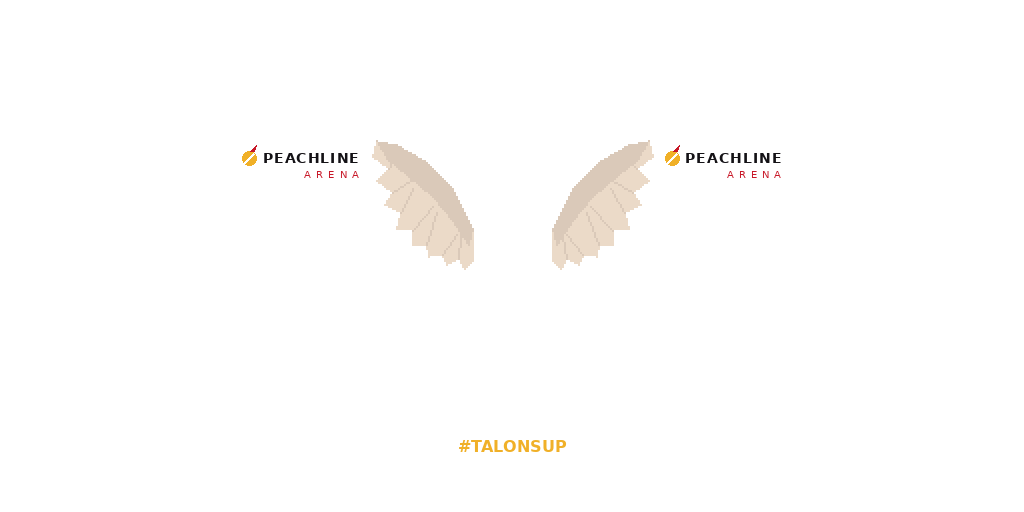
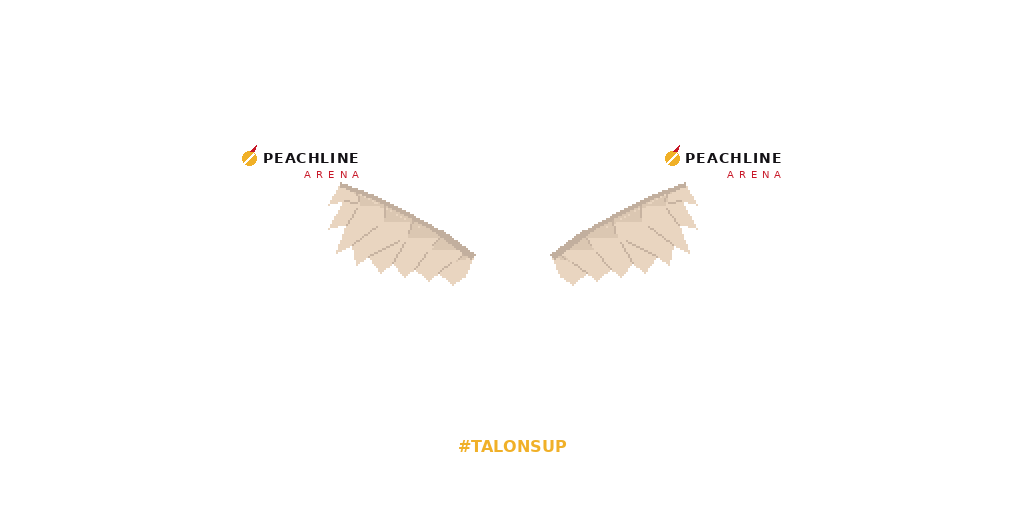
Reshape Talons court wings into a broad spread-wing silhouette
Flatter, wider wings whose leading edge sweeps up to high outer tips,
with a tier of pointed coverts and long primaries fanning down and out,
set low enough to pass under the sponsor marks.

Claude-Session: https://claude.ai/code/session_019xdidrNboBfdBqy3KgEpk9

Changed region(s): [[0.5312, 0.2812, 0.6875, 0.5625], [0.3125, 0.2812, 0.4688, 0.5625]]

diff --git a/hoopland/make_talons_overlay.py b/hoopland/make_talons_overlay.py
@@ -10,8 +10,8 @@ import math, os
 
 W, H = 1024, 512
 LW, LH = W // 2, H // 2  # pixel-art layer, upscaled 2x
-LIGHT_FACE = (206, 166, 122)
-DARK_FACE = (166, 124, 84)
+LIGHT_FACE = (210, 170, 126)
+DARK_FACE = (140, 100, 64)
 BLACK = (20, 18, 22)
 RED = (200, 24, 40)
 GOLD = (240, 176, 40)
@@ -27,23 +27,38 @@ SANS_LIGHT = "/usr/share/fonts/truetype/dejavu/DejaVuSans.ttf"
 wings = Image.new("RGBA", (LW, LH), (0, 0, 0, 0))
 wd = ImageDraw.Draw(wings)
 
-# left wing outline relative to center: leading edge up to the tip, then the feathered trailing edge
-LEADING = ((-20, -14), (-30, -34), (-44, -48), (-58, -56), (-68, -58))
-TIPS = ((-70, -50), (-68, -38), (-64, -26), (-58, -14), (-50, -6), (-42, 0), (-33, 4), (-24, 6))
-NOTCHES = ((-62, -44), (-60, -32), (-56, -22), (-50, -13), (-43, -6), (-35, -1), (-27, 1), (-20, 2))
-BONE = ((-24, -16), (-34, -30), (-46, -40), (-58, -48))
+# Broad, nearly horizontal spread wings: the leading edge sweeps up to high outer tips, a tier of
+# pointed coverts runs along the top, and long primaries fan down and outward at the ends.
+# Points are for the left wing, relative to center; the right wing mirrors them.
+MID_FACE = (182, 140, 98)
+EDGE = (130, 92, 58)
+DROP = 12                                                 # sit the wings low enough to pass under the sponsor marks
+def lower(pts):
+    return tuple((x, y + DROP) for x, y in pts)
+LEADING = lower(((-20, -12), (-36, -24), (-54, -34), (-70, -42), (-86, -48)))
+TIPS = lower(((-92, -38), (-92, -26), (-88, -14), (-78, -8), (-66, -4), (-54, -2), (-42, 0), (-30, 2)))
+NOTCHES = lower(((-84, -40), (-83, -28), (-80, -18), (-72, -12), (-60, -9), (-49, -6), (-37, -4), (-24, -2)))
+COVERT_TIPS = lower(((-76, -38), (-64, -30), (-52, -22), (-40, -16), (-28, -10)))
+COVERT_NOTCHES = lower(((-78, -45), (-64, -38), (-50, -30), (-36, -22), (-22, -15)))
 for side in (-1, 1):
     P = lambda pts: [(CX - side * x, CY + y) for x, y in pts]       # side -1 is the left wing, 1 mirrors it
     outline = list(LEADING)
     for tip, notch in zip(TIPS, NOTCHES):
         outline += [tip, notch]
     wd.polygon(P(outline), fill=LIGHT_FACE + (255,))
-    # coverts: a darker band along the leading edge with a scalloped lower edge
-    wd.polygon(P(list(LEADING) + [(-62, -48), (-52, -40), (-40, -30), (-30, -18), (-22, -6)]), fill=DARK_FACE + (255,))
-    for (nx, ny), k in zip(NOTCHES[:-1], range(len(NOTCHES) - 1)):   # feather separations
-        bx, by = BONE[min(3, (len(NOTCHES) - 2 - k) // 2)]
-        wd.line(P([(nx, ny), (bx + (nx - bx) * 0.35, by + (ny - by) * 0.35)]), fill=DARK_FACE + (255,))
-alpha = wings.getchannel("A").point(lambda v: 105 if v else 0)
+    # covert tier: pointed feathers hanging off the leading edge
+    coverts = list(LEADING)[::-1]
+    for notch, tip in zip(COVERT_NOTCHES, COVERT_TIPS):
+        coverts += [notch, tip]
+    wd.polygon(P(coverts + [LEADING[0]]), fill=MID_FACE + (255,))
+    # feather separations: from each trailing notch up toward the coverts
+    for (nx, ny), k in zip(NOTCHES[:-1], range(len(NOTCHES) - 1)):
+        cx_, cy_ = COVERT_TIPS[min(len(COVERT_TIPS) - 1, k * len(COVERT_TIPS) // (len(NOTCHES) - 1))]
+        wd.line(P([(nx, ny), (nx + (cx_ - nx) * 0.75, ny + (cy_ - ny) * 0.75)]), fill=DARK_FACE + (255,))
+    for (nx, ny), (tx, ty) in zip(COVERT_NOTCHES, COVERT_TIPS):      # covert separations
+        wd.line(P([(nx, ny), (tx + (nx - tx) * 0.2, ty + (ny - ty) * 0.2)]), fill=DARK_FACE + (255,))
+    wd.line(P(list(LEADING)), fill=EDGE + (255,), width=3)            # darker leading-edge stroke
+alpha = wings.getchannel("A").point(lambda v: 125 if v else 0)
 wings.putalpha(alpha)
 img = wings.resize((W, H), Image.NEAREST)
 
